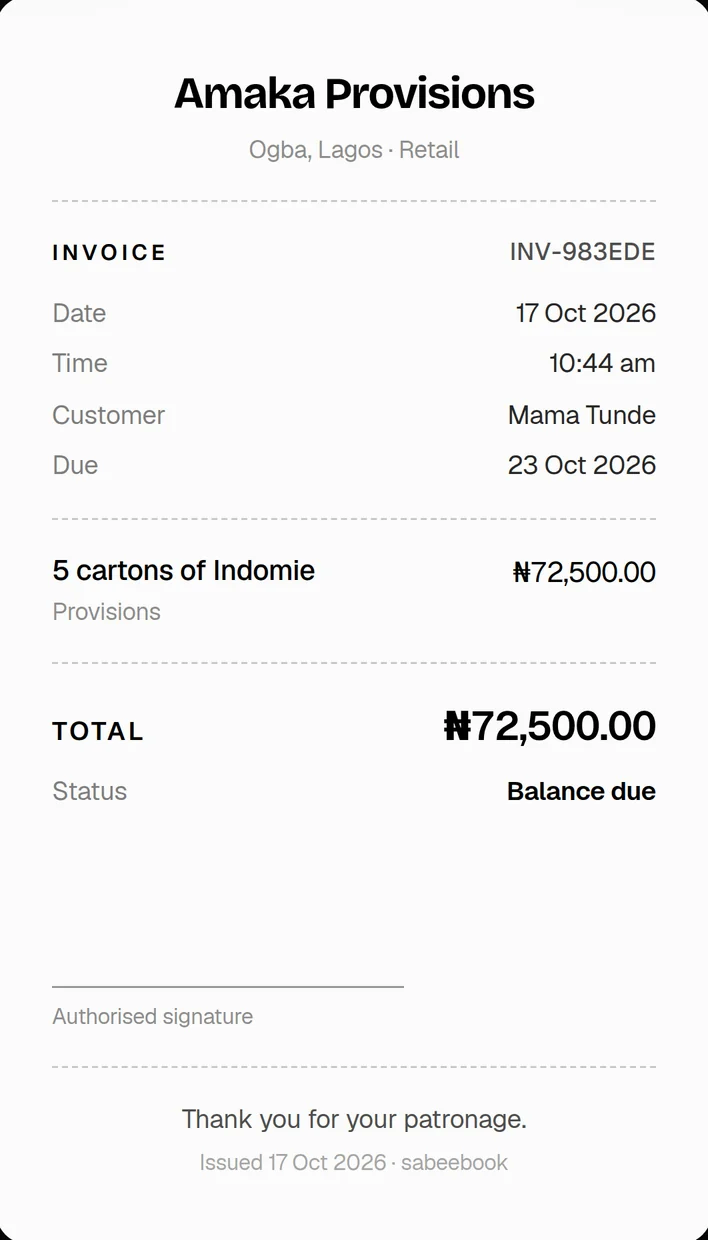
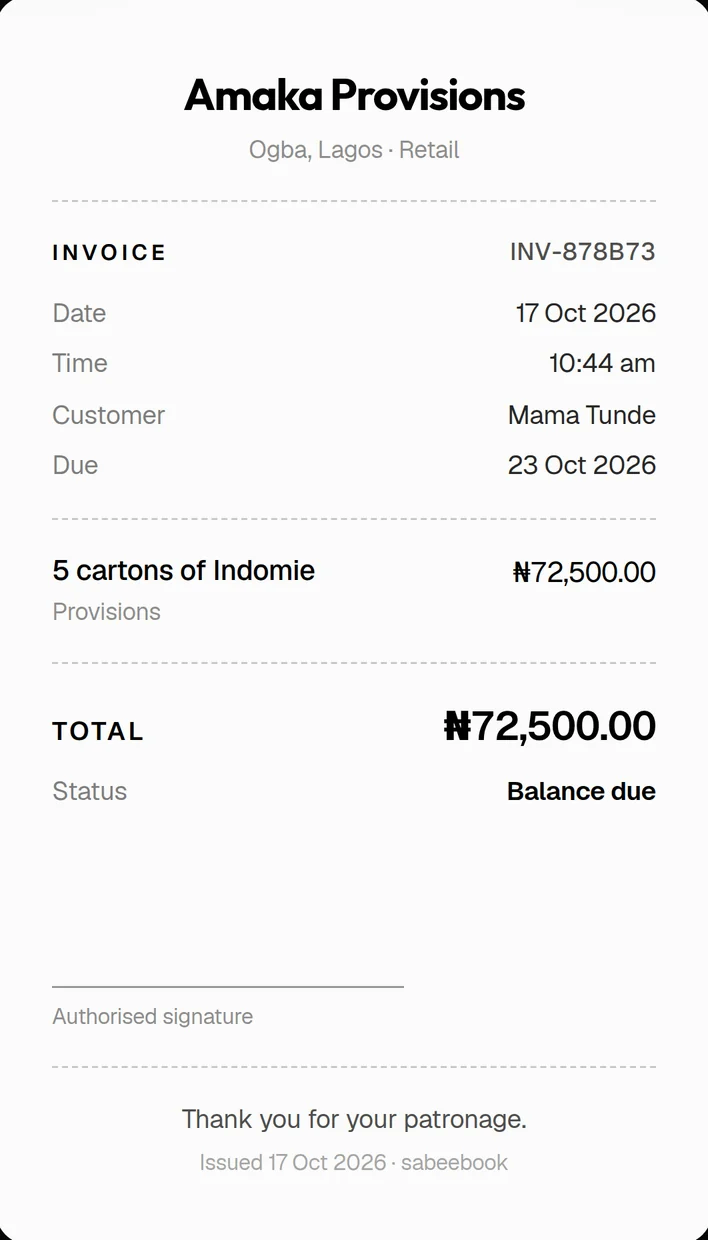
Home page: retake the chat and invoice screenshots with the new bee
The chat avatar in the screenshots still showed the old bee. Retaken from the sample
shop (its chat cleared and the two entries it made recorded again, so the books are
unchanged), and the Mama Tunde card moved off the longer reply. Drops an unused image.

Claude-Session: https://claude.ai/code/session_01LwHGBqyJgb5c6H5c5pBhWR

Changed region(s): [[0.2486, 0.0613, 0.7768, 0.0919], [0.7768, 0.1839, 0.9322, 0.2145]]

diff --git a/apps/frontend/src/app/page.tsx b/apps/frontend/src/app/page.tsx
@@ -168,7 +168,7 @@ function Hero() {
               </div>
             </Glass>
 
-            <Glass className="landing-float-2 absolute -right-14 top-[56%] w-[206px] bg-[#0d3a28]/80 p-3 sm:-right-28 sm:top-[46%] sm:w-[228px] sm:p-3.5">
+            <Glass className="landing-float-2 absolute -right-14 top-[63%] w-[206px] bg-[#0d3a28]/80 p-3 sm:-right-28 sm:top-[60%] sm:w-[228px] sm:p-3.5">
               <div className="flex items-center gap-2.5">
                 <span className="flex h-9 w-9 shrink-0 items-center justify-center rounded-full bg-brand-yellow text-[12px] font-bold text-brand-black">MT</span>
                 <div className="min-w-0">

diff --git a/docs/PROGRESS.md b/docs/PROGRESS.md
@@ -364,7 +364,7 @@
   - **Font.** The brand sheet's typeface isn't named, and the sheet looks AI-generated, so there's likely no original font file. The closest free match is **Outfit**, now used for headings across the app and for all text on the home page. Bricolage is gone. Outfit has no ₦, so `globals.css` adds a one-character face ("sabeebook naira", from League Spartan's latin-ext file, 20 KB) that supplies just ₦. The app's body text stays Geist, which suits dense tables and numbers; Geist has no ₦ either, and phones fill it in from their system font, as before.
   - **Phones.** On phones, the steps, the PDF report cards and the price plans are swipeable rows, and the small features are one compact list. The laptop runs off the right edge so its screen is big enough to read, the debts panel's phone is shortened, the floating cards in the opening screen are more solid and placed over empty parts of the chat, and the spacing is tighter. The page is about 22% shorter at 360px wide, with no sideways scrolling at 360 or 390.
   - **The bee.** The bee is now traced from the light version on the brand sheet (green wings, black head), and recoloured for dark backgrounds (pale wings and head, as on the sheet's dark panel). Each comes with and without the "1 2 3": `assets/brand/sabeebook-bee*.svg`. These replace the earlier trace of the dark panel and the simplified bee drawn for the home page. The chat avatar (`sabeebook-tile.svg`) and the app icons (`app/icon.png`, `app/apple-icon.png`) are rebuilt from the same drawing.
-    - The tiny avatar inside the home page's chat screenshots still shows the old bee until those screenshots are retaken with the real assistant after launch.
+    - The chat and invoice screenshots on the home page were retaken, so they show the new bee too.
   - **Fewer distractions.** Only the opening screen's three cards float; the bees and flight paths stay still. The honey band has a "Try it free" button, so there's a way to start in the middle of the page as well as in the header, the opening screen, the prices and the end.
   - **What the page doesn't claim:** reading photos and voice notes. The chat's photo and microphone buttons exist, but the assistant doesn't use them yet.
   - **Prices and limits are written on the page itself.** Keep them in step with `services/plans.ts` and the `TRIAL_DAYS`/`TRIAL_MESSAGES` defaults.
